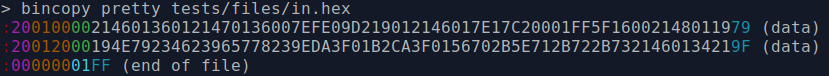
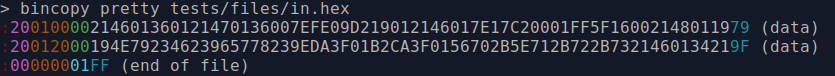
Same data size color for all pretty formats.

diff --git a/bincopy.py b/bincopy.py
@@ -275,7 +275,7 @@ def pretty_ihex(record):
             type_))
 
     return ('\033[0;31m' + record[:1]
-            + '\033[0;35m' + record[1:3]
+            + '\033[0;95m' + record[1:3]
             + '\033[0;33m' + record[3:7]
             + type_color + record[7:9]
             + '\033[0m' + record[9:-2]
